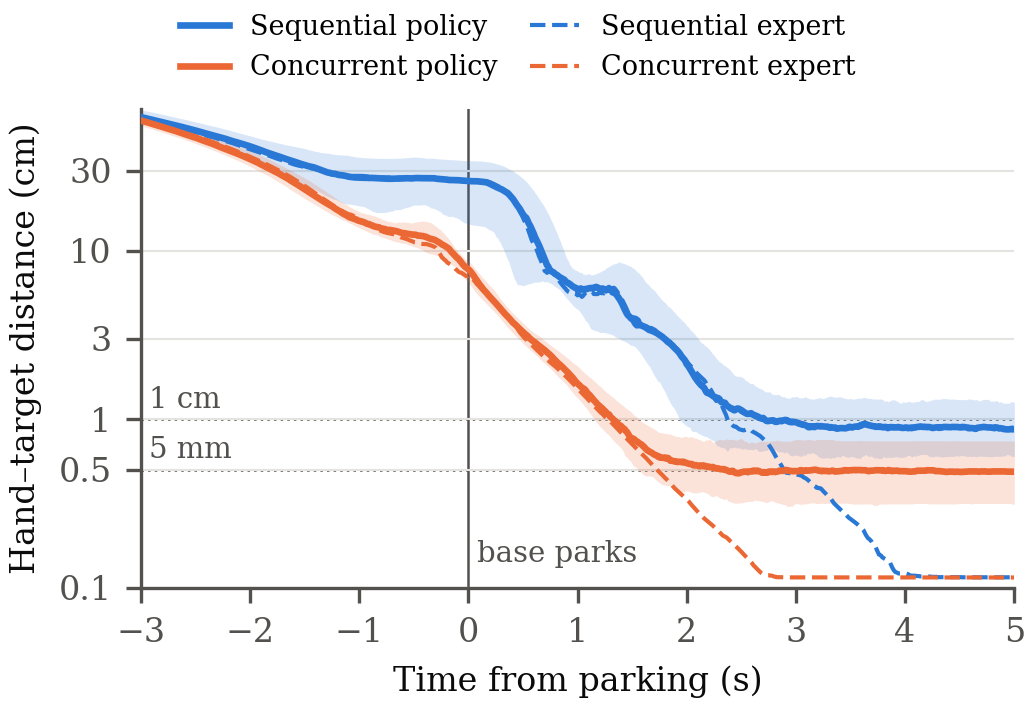
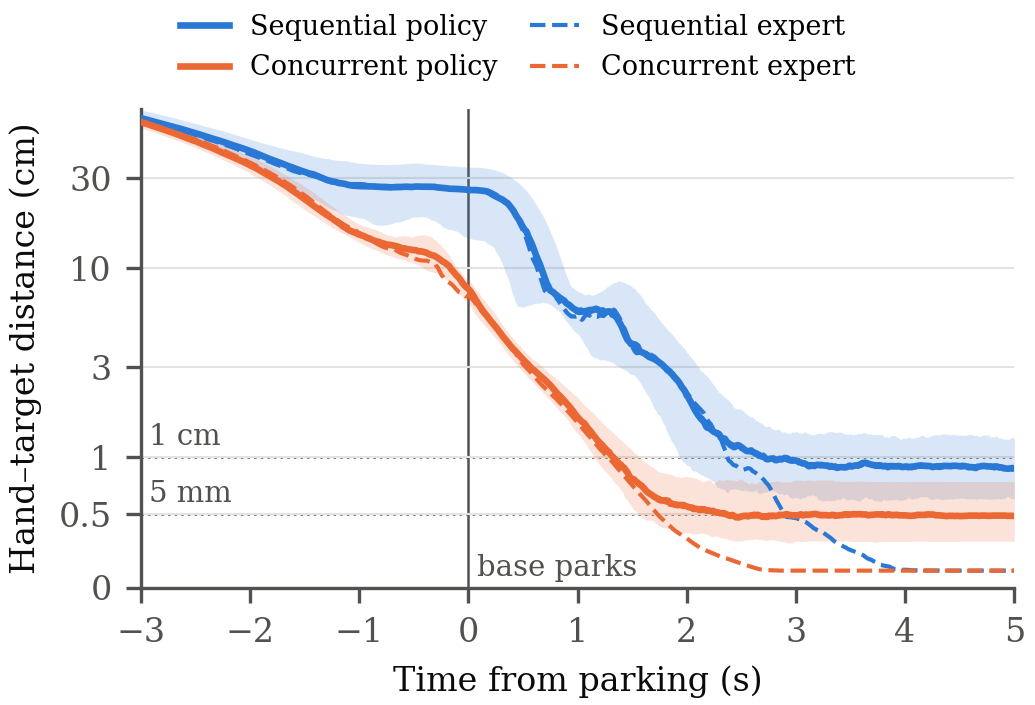
plot_approach.py: linear, compressed y scale below 5 mm so the experts' last millimetres don't look like a decade

diff --git a/concurrent_arm/plot_approach.py b/concurrent_arm/plot_approach.py
@@ -71,7 +71,7 @@ def main():
         ax.axhline(y, color=MUTED, lw=0.6, ls=":", zorder=1)
         ax.text(T[0] + 0.08, y * 1.08, lab, color=MUTED, ha="left", va="bottom", fontsize=7)
     ax.axvline(0, color=MUTED, lw=0.6, zorder=1)
-    ax.text(0.08, 0.0013, "base parks", color=MUTED, fontsize=7, va="bottom")
+    ax.text(0.08, 0.0004, "base parks", color=MUTED, fontsize=7, va="bottom")
 
     summary = []
     for name, data_names, prefix, colour in VARIANTS:
@@ -86,11 +86,13 @@ def main():
         i0 = np.searchsorted(T, 0.0)
         summary.append((name, n, ne, med[i0], emed[i0]))
 
-    ax.set_yscale("log")
-    ax.set_ylim(0.001, 0.7)
+    # Log above 5 mm, linear below it and compressed (linscale), so the experts' last millimetres don't take as much
+    # height as a decade above: the step from 5 mm down to ~1 mm would otherwise look as large as 1 cm -> 5 mm.
+    ax.set_yscale("symlog", linthresh=0.005, linscale=0.35)
+    ax.set_ylim(0.0, 0.7)
     ax.set_xlim(T[0], T[-1])
-    ax.set_yticks([0.001, 0.005, 0.01, 0.03, 0.1, 0.3])
-    ax.set_yticklabels(["0.1", "0.5", "1", "3", "10", "30"])
+    ax.set_yticks([0.0, 0.005, 0.01, 0.03, 0.1, 0.3])
+    ax.set_yticklabels(["0", "0.5", "1", "3", "10", "30"])
     ax.yaxis.set_minor_locator(plt.NullLocator())
     ax.set_xlabel("Time from parking (s)")
     ax.set_ylabel("Hand–target distance (cm)")
